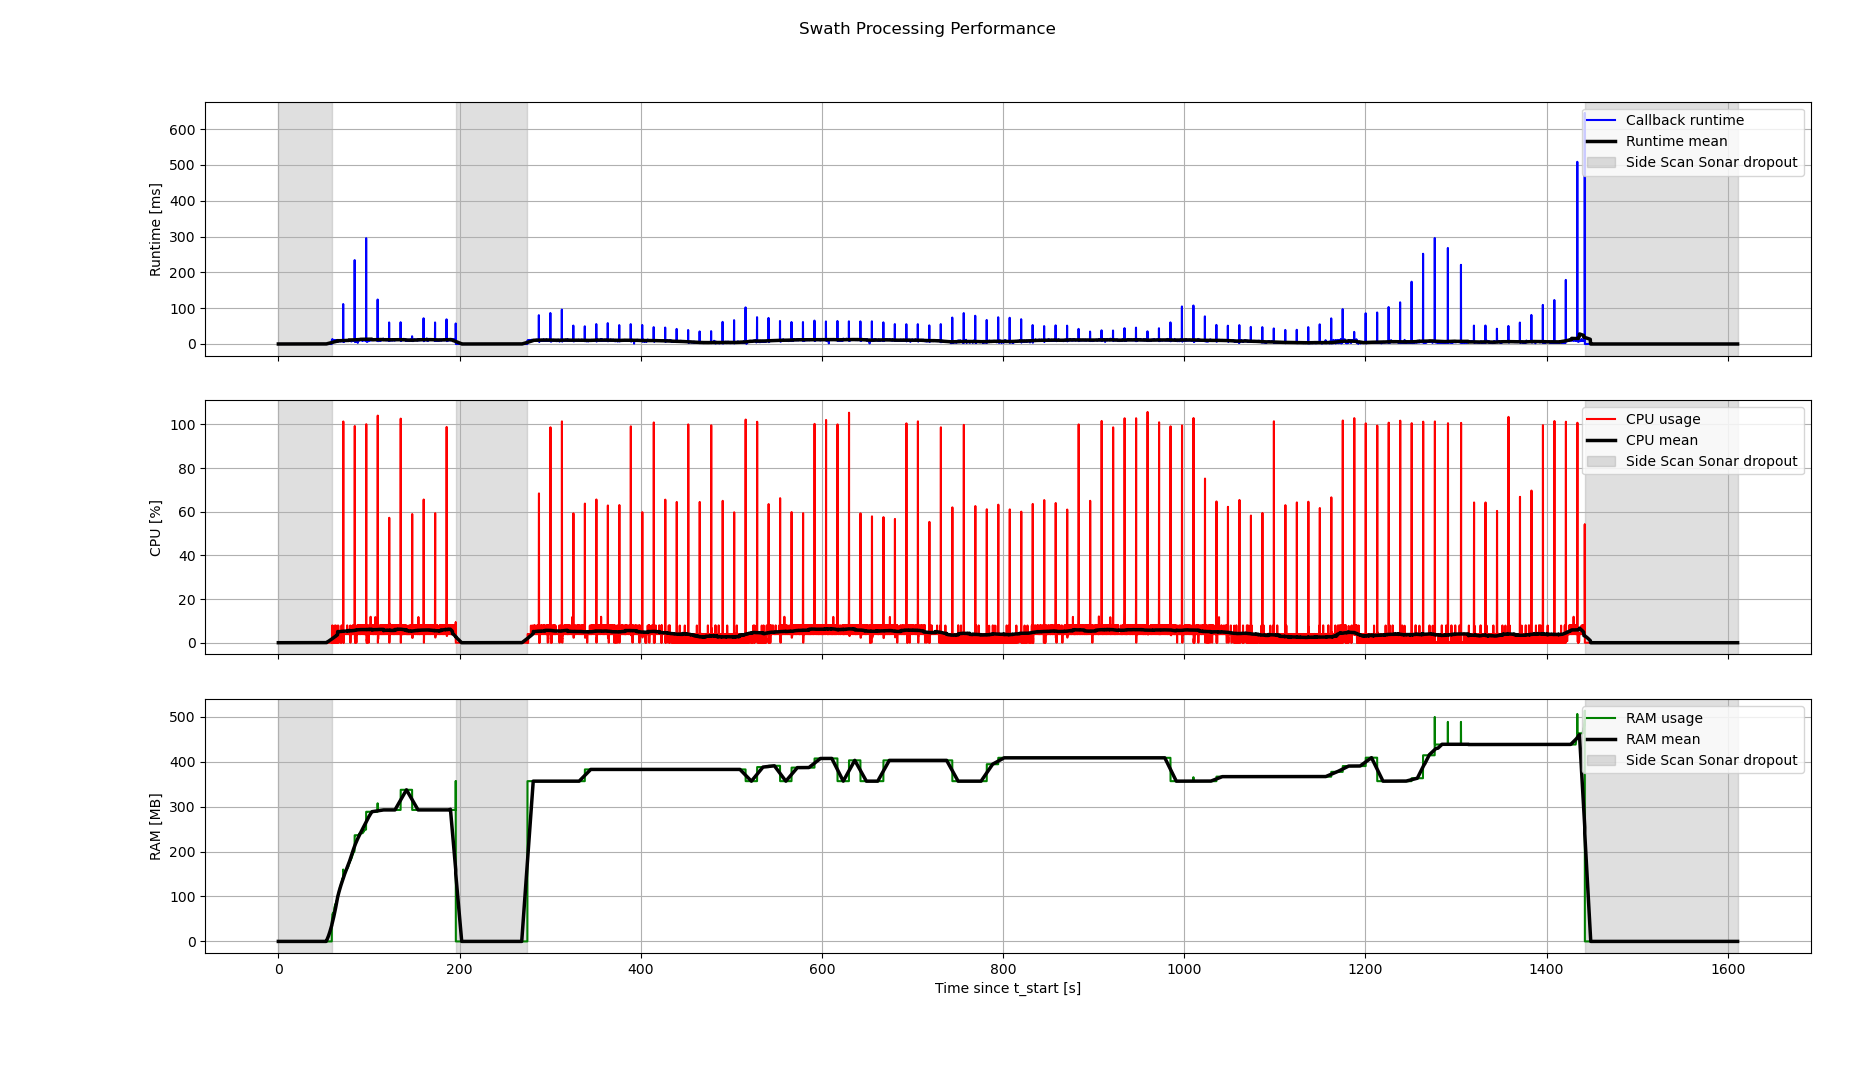
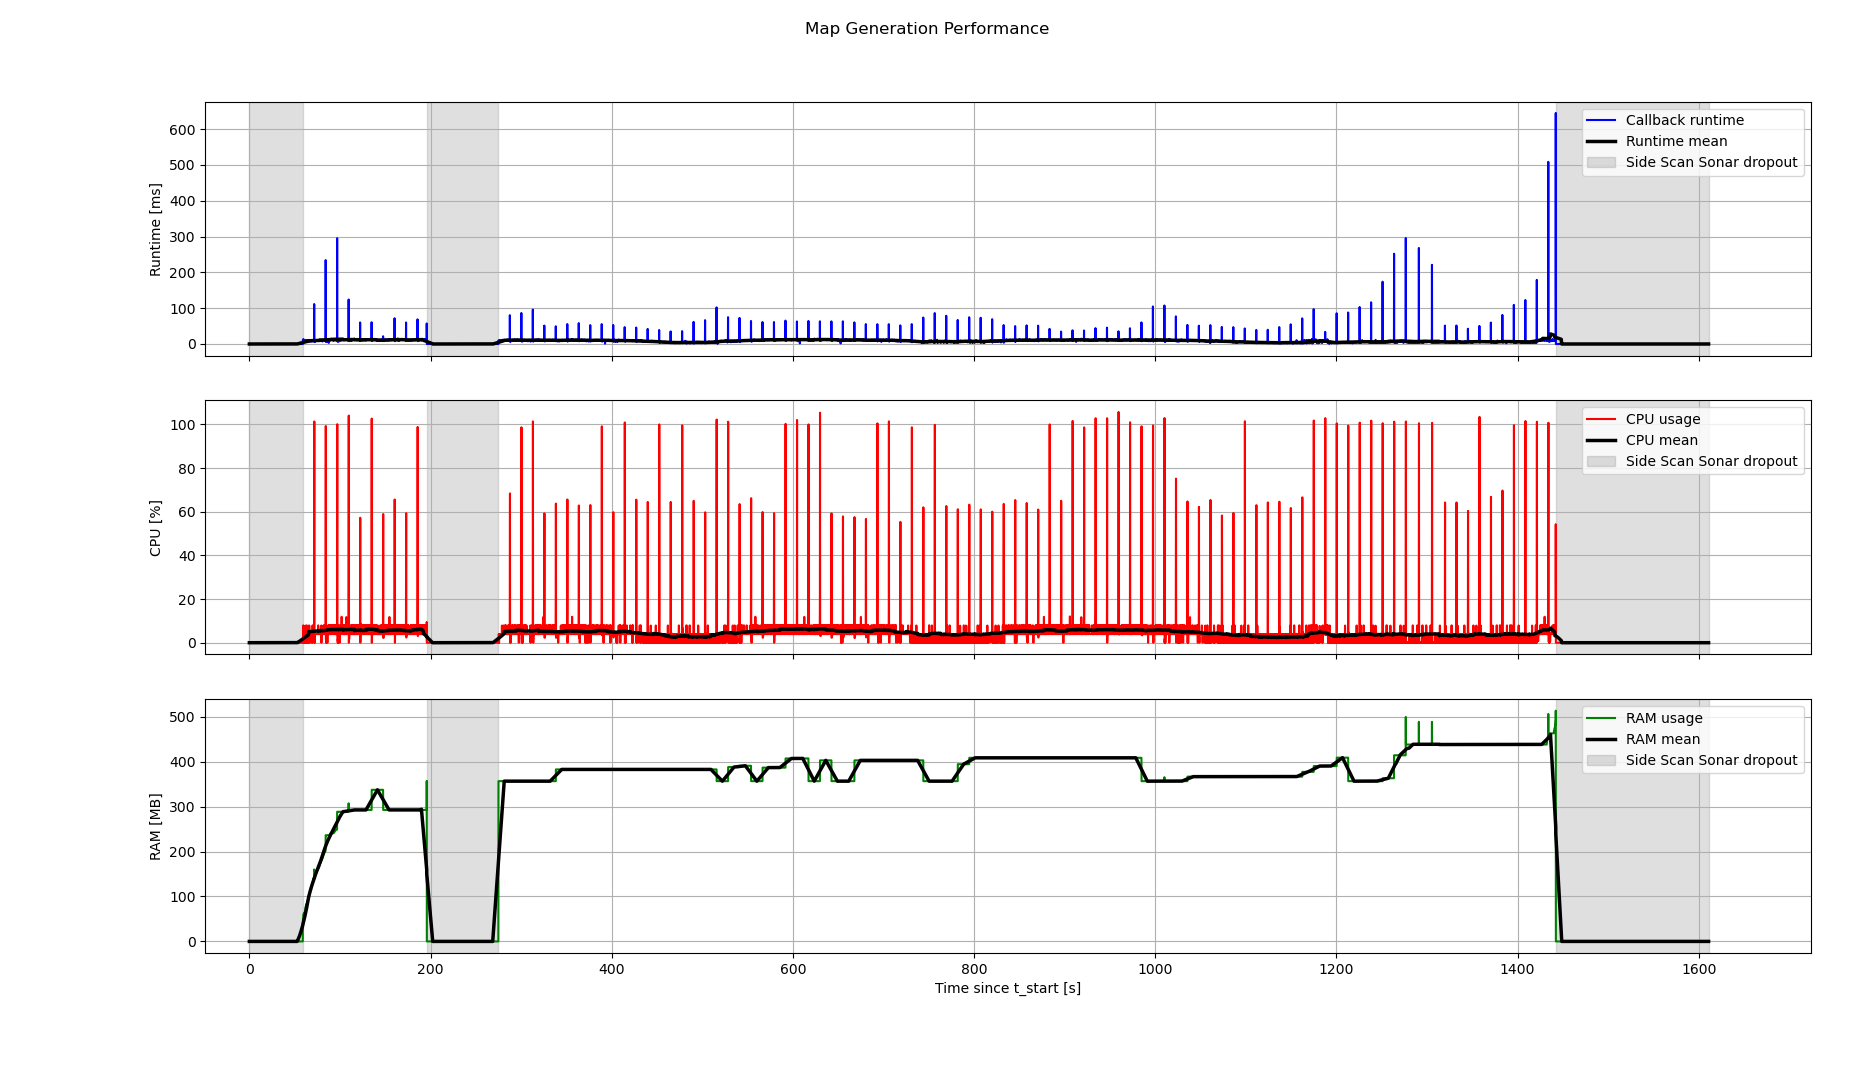
Added more results for map generation I think I am happy now with teh whole thing :)

diff --git a/src/sss_data_processing/local_map_generator/rust/map_generation_node/test/test.rs b/src/sss_data_processing/local_map_generator/rust/map_generation_node/test/test.rs
@@ -356,8 +356,11 @@ fn main() {
     let mut ping_counter: usize = 0;
 
     // Timing for performance analytics buffers
-    let mut total_buffer_processed_swath_into_map_s = 0.0;
-    let mut total_calculate_map_s = 0.0;
+    let mut total_buffer_processed_swath_into_map_s: f64 = 0.0;
+    let mut total_calculate_map_s: f64 = 0.0;
+
+    let mut peak_buffer_processed_swath_into_map_s: f64 = 0.0;
+    let mut peak_calculate_map_s: f64 = 0.0;
 
     let mut count_buffer_processed_swath_into_map: usize = 0;
     let mut count_calculate_map: usize = 0;
@@ -399,7 +402,9 @@ fn main() {
             geometric_correction,
             swath_processed,
         );
-        total_buffer_processed_swath_into_map_s += t_start.elapsed().as_secs_f64();
+        let dt_buffer_processed_swath_into_map_s = t_start.elapsed().as_secs_f64();
+        total_buffer_processed_swath_into_map_s += dt_buffer_processed_swath_into_map_s;
+        peak_buffer_processed_swath_into_map_s = peak_buffer_processed_swath_into_map_s.max(dt_buffer_processed_swath_into_map_s);
         count_buffer_processed_swath_into_map += 1;
 
         // get current swath map data and log it every loop
@@ -426,7 +431,9 @@ fn main() {
         if buffer_full {
             let t_start = Instant::now();
             let map = map_generator.calculate_map(&pose);
-            total_calculate_map_s += t_start.elapsed().as_secs_f64();
+            let dt_calculate_map_s = t_start.elapsed().as_secs_f64();
+            total_calculate_map_s += dt_calculate_map_s;
+            peak_calculate_map_s = peak_calculate_map_s.max(dt_calculate_map_s);
             count_calculate_map += 1;
 
             logger_map.log(t, &map);
@@ -457,16 +464,22 @@ fn main() {
         };
 
     println!(
-        "Average buffer_processed_swath_into_map runtime: {:.6} s ({:.3} ms) over {} calls",
-        avg_buffer_processed_swath_into_map_s,
-        avg_buffer_processed_swath_into_map_s * 1e3,
-        count_buffer_processed_swath_into_map
+        "buffer_processed_swath_into_map runtime: \t
+         calls:   {}                              \t
+         average: {:.6} s ({:.3} ms)              \t
+         peak:    {:.6} s ({:.3} ms)              \t",
+        count_buffer_processed_swath_into_map,
+        avg_buffer_processed_swath_into_map_s, avg_buffer_processed_swath_into_map_s * 1e3,
+        peak_buffer_processed_swath_into_map_s, peak_buffer_processed_swath_into_map_s * 1e3,
     );
 
     println!(
-        "Average calculate_map runtime: {:.6} s ({:.3} ms) over {} calls",
-        avg_calculate_map_s,
-        avg_calculate_map_s * 1e3,
-        count_calculate_map
+        "calculate_map runtime:      \t
+         calls:   {}                 \t
+         average: {:.6} s ({:.3} ms) \t
+         peak:    {:.6} s ({:.3} ms) \t",
+        count_calculate_map,
+        avg_calculate_map_s, avg_calculate_map_s * 1e3,
+        peak_calculate_map_s, peak_calculate_map_s * 1e3,
     );
 }

diff --git a/src/sss_data_processing/local_map_generator/rust/map_generation_node/src/main.rs b/src/sss_data_processing/local_map_generator/rust/map_generation_node/src/main.rs
@@ -100,9 +100,8 @@ async fn main() -> Result<(), Box<dyn std::error::Error>> {
 
     // Parameters ----------
     #[allow(non_snake_case)]
-    // ! TRUE LOG ! 
-    let LOG = node.get_parameter::<bool>("log").ok().unwrap_or(false) as bool;
-    //let LOG = false; // ! THIS IS FAKE LOG FOR DEBUGGING, REMOVE IT LATER AND UNCOMMENT THE "! TRUE LOG !" TO GO BACK TO NORMAL
+    // ! TRUE LOG ! let LOG = node.get_parameter::<bool>("log").ok().unwrap_or(false) as bool;
+    let LOG = false; // ! THIS IS FAKE LOG FOR DEBUGGING, REMOVE IT LATER AND UNCOMMENT THE "! TRUE LOG !" TO GO BACK TO NORMAL
     
     let map_update_every_n_swaths = node.get_parameter::<i64>("local_map_generator.map_update_every_n_swaths").ok().unwrap_or(0) as usize;
     let map_update_max_time_gap = node.get_parameter::<f64>("local_map_generator.map_update_max_time_gap").ok().unwrap_or(0.0);

diff --git a/src/sss_data_processing/local_map_generator/rust/swath_processing_node/src/main.rs b/src/sss_data_processing/local_map_generator/rust/swath_processing_node/src/main.rs
@@ -76,6 +76,7 @@ async fn main() -> Result<(), Box<dyn std::error::Error>> {
     #[allow(non_snake_case)]
     // ! TRUE LOG ! let LOG = node.get_parameter::<bool>("log").ok().unwrap_or(false) as bool;
     let LOG = false; // ! THIS IS FAKE LOG FOR DEBUGGING, REMOVE IT LATER AND UNCOMMENT THE "! TRUE LOG !" TO GO BACK TO NORMAL
+    
     let illumination_ema_period = node.get_parameter::<i64>("local_map_generator.illumination_ema_period").ok().unwrap_or(0) as usize;
     
     let transducer_port_pose_position_x = node.get_parameter::<f64>("local_map_generator.transducers.port.pose.position.x").ok().unwrap_or(0.0) as f64;

diff --git a/src/sss_data_processing/local_map_generator/logs/plot_performance.py b/src/sss_data_processing/local_map_generator/logs/plot_performance.py
@@ -93,7 +93,7 @@ def main():
 
     fig, axes = create_stacked_plot(
         3,
-        title="Swath Processing Performance",
+        title="Map Generation Performance",
         xlabel="Time since t_start [s]",
         ylabels=["Runtime [ms]", "CPU [%]", "RAM [MB]"]
     )
